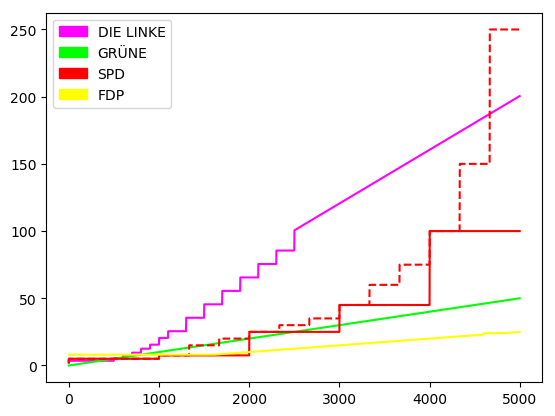
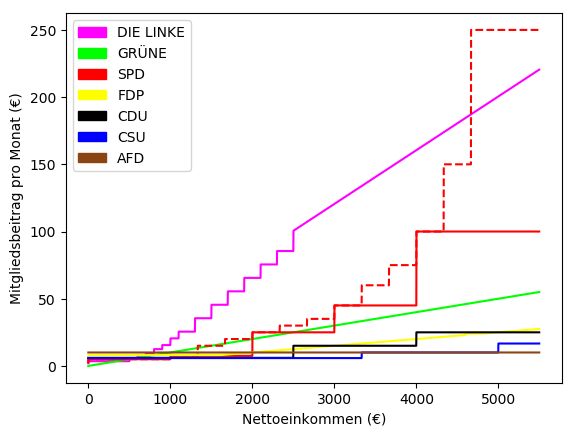
added cdu, csu and afd

diff --git a/parteien_beitrags_verleich.py b/parteien_beitrags_verleich.py
@@ -121,16 +121,53 @@ def fdp(einkommen):
     return beitrag
 
 
+def cdu(einkommen):
+    beitrag = []
+    for e in einkommen:
+        if e < 2500:
+            beitrag.append(6)
+        elif e < 4000:
+            beitrag.append(15)
+        elif e < 6000:
+            beitrag.append(25)
+        else:
+            beitrag.append(50)
+    return beitrag
+
+
+def csu(einkommen):
+    beitrag = []
+    for e in einkommen:
+        if e < 40000 / 12:
+            beitrag.append(70/12)
+        elif e < 60000 / 12:
+            beitrag.append(120/12)
+        else:
+            beitrag.append(200/12)
+    return beitrag
+
+
+def afd(einkommen):
+    beitrag = []
+    for e in einkommen:
+        beitrag.append(120/12)
+    return beitrag
+
+
 def make_graph():
-    einkommen = [e for e in range(5000)]
+    einkommen = [e for e in range(5500)]
     # einkommen = numpy.arange(0, 5000, 1)
     party_list = [[die_linke, '#ff00ff', None, 'DIE LINKE'],
                   [gruene, '#00ff00', None, 'GRÜNE'],
                   [spd, '#ff0000', None, 'SPD'],
                   [spd_2, '#ff0000', 'dashed', None],
                   [fdp, '#ffff00', None, 'FDP'],
+                  [cdu, '#000000', None, 'CDU'],
+                  [csu, '#0000ff', None, 'CSU'],
+                  [afd, '#8B4513', None, 'AFD'],
                   ]
-    pyplot.figure()
+    fig = pyplot.figure()
+    plot = fig.add_subplot(111)
     label = []
     for party in party_list:
         if party[2]:
@@ -139,9 +176,23 @@ def make_graph():
             pyplot.plot(einkommen, party[0](einkommen), party[1], linestyle='solid')
         if party[3]:
             label.append(patches.Patch(color=party[1], label=party[3]))
-    pyplot.legend(handles=label),
-    # pyplot.show()
+    pyplot.legend(handles=label)
+    plot.set_xlabel('Nettoeinkommen (€)')
+    plot.set_ylabel('Mitgliedsbeitrag pro Monat (€)')
     pyplot.savefig('parteienbeitrag.png', bbox_inches='tight')
+
+    einkommen = [e for e in range(1000)]
+    fig = pyplot.figure()
+    plot = fig.add_subplot(111)
+    for party in party_list:
+        if party[2]:
+            pyplot.plot(einkommen, party[0](einkommen), party[1], linestyle=party[2])
+        else:
+            pyplot.plot(einkommen, party[0](einkommen), party[1], linestyle='solid')
+    pyplot.legend(handles=label)
+    plot.set_xlabel('Nettoeinkommen (€)')
+    plot.set_ylabel('Mitgliedsbeitrag pro Monat (€)')
+    pyplot.savefig('parteienbeitrag_niedrige_einkommen.png', bbox_inches='tight')
 
 if __name__ == '__main__':
     make_graph()

diff --git a/README.md b/README.md
@@ -2,6 +2,7 @@
 Ein kleiner Vergleich der Mitgliedsbeiträge einiger deutschen Parteien
 
 ![Mitgliedsbeiträge als Graph](parteienbeitrag.png)
+![Mitgliedsbeiträge für niedrige Einkommen als Graph](parteienbeitrag_niedrige_einkommen.png)
 
 ## Anmerkungen
 
@@ -12,10 +13,13 @@ jeweils drei Beitragsstufen aufgeteilt, in die sich jedes Mitglied entsprechend
 Einkommen einstuft. Diese Beitragsstufen sind im Graphen durch die gestrichelte
 Line verdeutlicht.
 
-## Quelle
+## Quellen
 Partei | Quelle | gültig seit
 -------|--------|------------
 DIE LINKE | [Beitragstabelle der Partei DIE LINKE](https://www.die-linke.de/fileadmin/download/grundsatzdokumente/beitragstabelle/die_linke_beitragstabelle_stand_januar_2016.pdf) | 01.01.2016
 BÜNDNIS 90/DIE GRÜNEN | [Satzung des Bundesverbandes BÜNDNIS 90/DIE GRÜNEN](https://www.gruene.de/fileadmin/user_upload/Dokumente/Satzung/Satzung_Bundesverband.pdf) | 12.11.2016
 SPD | [Finanzordnung der Sozialdemokratischen Partei Deutschlands](https://www.spd.de/fileadmin/Dokumente/Parteiorganisation/Organisationsstatut.pdf) | 26.01.2016
 FDP | [Finanz- und Beitragsordnung der Freien Demokratischen Partei](https://www.fdp.de/sites/default/files/uploads/2016/05/02/finanz-undbeitragsordnung2016.pdf) | 23.04.2016
+CDU | [Fragen und Antworten zur Mitgliedschaft](https://www.cdu.de/artikel/fragen-und-antworten-zur-mitgliedschaft) | N/A
+CSU | [Beitragsordnung der Chrstlich Sozialen Union](http://www.csu.de/common/csu/content/csu/hauptnavigation/partei/satzung/CSU-Satzung-2017-ES.pdf) | 05.11.2016
+AFD | [Mitgliedsantrag](https://www.afd.de/wp-content/uploads/sites/111/2017/02/AfD_Aufnahmeantrag_Formular.pdf) | N/A
